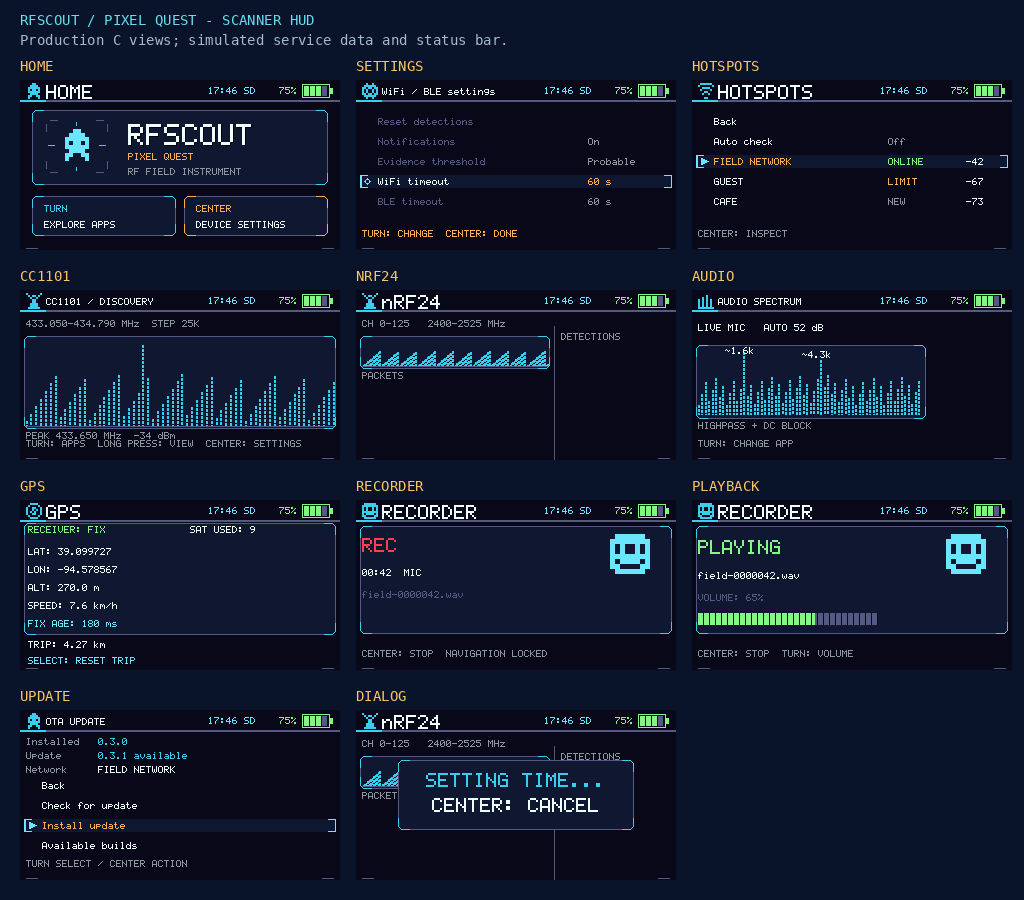
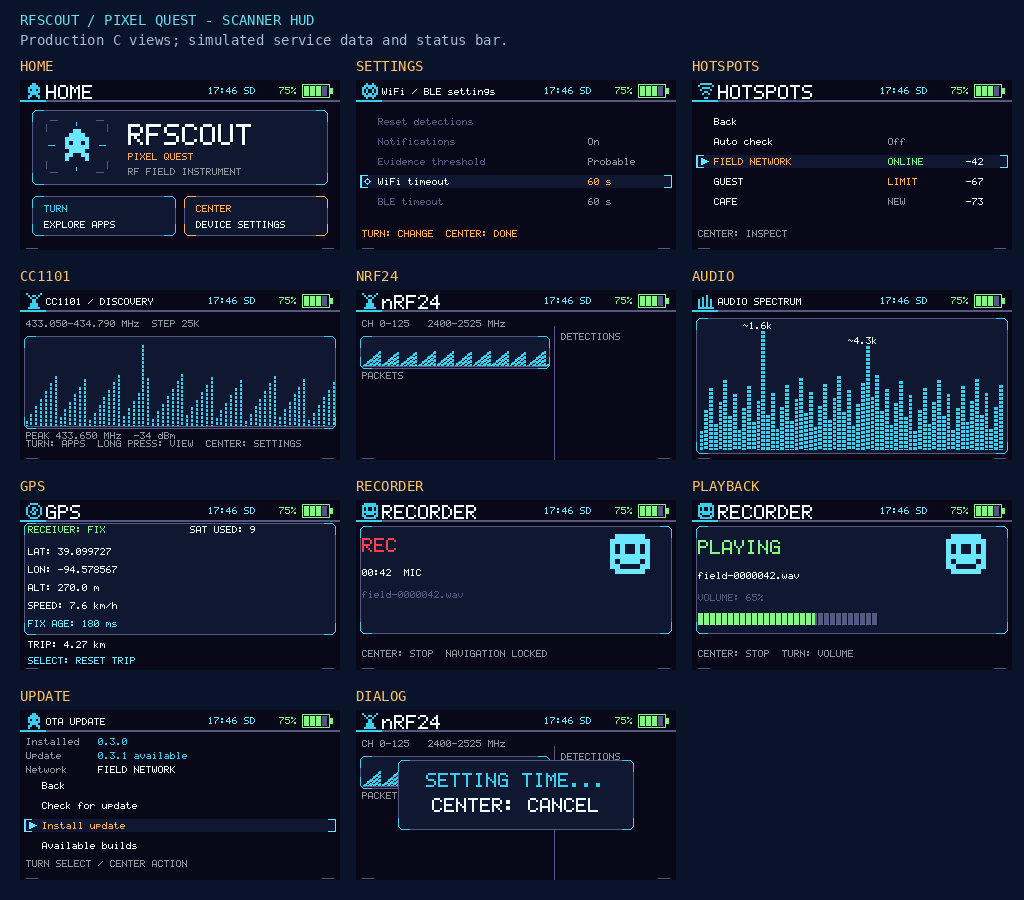
Expand audio spectrum and remove fixed automatic range limits

Changed region(s): [[0.6562, 0.3422, 1.0, 0.5289]]

diff --git a/main/apps/audio_spectrum/view.c b/main/apps/audio_spectrum/view.c
@@ -10,16 +10,15 @@
 #include "recorder.h"
 #include "ui_chrome.h"
 #include "ui_game.h"
-#include "ui_layout.h"
 #include "ui_theme.h"
 
 #include <stddef.h>
 #include <stdio.h>
 
-#define AUDIO_SPECTRUM_GRAPH_X UI_LAYOUT_LEFT_X
-#define AUDIO_SPECTRUM_GRAPH_Y 57
-#define AUDIO_SPECTRUM_GRAPH_W 224
-#define AUDIO_SPECTRUM_GRAPH_H 68
+#define AUDIO_SPECTRUM_GRAPH_X 8
+#define AUDIO_SPECTRUM_GRAPH_Y 32
+#define AUDIO_SPECTRUM_GRAPH_W ( RFSCOUT_DISPLAY_WIDTH - 16 )
+#define AUDIO_SPECTRUM_GRAPH_H ( RFSCOUT_DISPLAY_HEIGHT - 42 )
 #define AUDIO_SPECTRUM_PEAK_MIN_PERCENT 60U
 #define AUDIO_SPECTRUM_MAX_PEAK_LABELS 3U
 #define AUDIO_SPECTRUM_LABEL_WIDTH 36
@@ -148,19 +147,12 @@ void audio_spectrum_view_render( void )
 
     uint8_t bins[ RFSCOUT_RECORDER_MONITOR_BINS ];
     const size_t count = recorder_monitor_bins( bins, sizeof( bins ) );
-    char range_line[ 48 ];
-    snprintf( range_line,
-              sizeof( range_line ),
-              "LIVE MIC   AUTO %u dB",
-              (unsigned)recorder_monitor_range_db() );
-    display_draw_text( UI_LAYOUT_LEFT_X, 34, range_line, theme->text, 1U );
-
     if( ui_game_active() )
     {
-        ui_game_draw_panel( AUDIO_SPECTRUM_GRAPH_X - 2,
-                            AUDIO_SPECTRUM_GRAPH_Y - 2,
-                            AUDIO_SPECTRUM_GRAPH_W + 6,
-                            AUDIO_SPECTRUM_GRAPH_H + 6,
+        ui_game_draw_panel( AUDIO_SPECTRUM_GRAPH_X - 4,
+                            AUDIO_SPECTRUM_GRAPH_Y - 4,
+                            AUDIO_SPECTRUM_GRAPH_W + 8,
+                            AUDIO_SPECTRUM_GRAPH_H + 8,
                             theme->divider );
     }
 
@@ -170,12 +162,15 @@ void audio_spectrum_view_render( void )
         {
             const int x =
                 AUDIO_SPECTRUM_GRAPH_X + (int)( index * (size_t)AUDIO_SPECTRUM_GRAPH_W / count );
+            const int next_x = AUDIO_SPECTRUM_GRAPH_X +
+                               (int)( ( index + 1U ) * (size_t)AUDIO_SPECTRUM_GRAPH_W / count );
+            const int width = next_x - x > 1 ? next_x - x - 1 : 1;
             const int height = (int)bins[ index ] * AUDIO_SPECTRUM_GRAPH_H / 100;
             if( height > 0 )
             {
                 ui_game_draw_column( x,
                                      AUDIO_SPECTRUM_GRAPH_Y + AUDIO_SPECTRUM_GRAPH_H - height,
-                                     2,
+                                     width,
                                      height,
                                      theme->graph_primary );
             }
@@ -183,8 +178,5 @@ void audio_spectrum_view_render( void )
         draw_peak_labels( bins, count );
     }
 
-    display_draw_text( UI_LAYOUT_LEFT_X, 132, "HIGHPASS + DC BLOCK", theme->secondary, 1U );
-    display_draw_text(
-        UI_LAYOUT_LEFT_X, UI_LAYOUT_FOOTER_Y, "TURN: CHANGE APP", theme->secondary, 1U );
     (void)display_present();
 }

diff --git a/main/services/audio/recorder.c b/main/services/audio/recorder.c
@@ -46,7 +46,6 @@
 #define RECORDER_MONITOR_TASK_STACK 6144U
 #define RECORDER_MONITOR_TASK_PRIORITY 3U
 #define RECORDER_MONITOR_FIRST_FFT_BIN 1U
-#define RECORDER_MONITOR_MIN_RANGE_DB 18.0f
 #define RECORDER_MONITOR_HEADROOM_DB 3.0f
 #define RECORDER_MONITOR_RANGE_SMOOTH 0.05f
 
@@ -82,7 +81,7 @@ static uint8_t monitor_spectrum[ RFSCOUT_RECORDER_MONITOR_BINS ];
 static bool monitor_range_initialized;
 static float monitor_floor_db;
 static float monitor_ceiling_db;
-static volatile uint8_t monitor_range_db;
+static volatile float monitor_range_db;
 static volatile uint32_t monitor_sample_rate_hz = RFSCOUT_RECORDER_SAMPLE_RATE;
 static rfscout_audio_highpass_t monitor_highpass;
 static float monitor_fft_frame[ RECORDER_MONITOR_FFT_SIZE ];
@@ -844,11 +843,7 @@ static void compute_monitor_fft( const float *a_samples )
 
     const float floor_target = sorted[ RFSCOUT_RECORDER_MONITOR_BINS / 4U ];
     const float peak_target = sorted[ RFSCOUT_RECORDER_MONITOR_BINS - 1U ];
-    float ceiling_target = peak_target + RECORDER_MONITOR_HEADROOM_DB;
-    if( ceiling_target < floor_target + RECORDER_MONITOR_MIN_RANGE_DB )
-    {
-        ceiling_target = floor_target + RECORDER_MONITOR_MIN_RANGE_DB;
-    }
+    const float ceiling_target = peak_target + RECORDER_MONITOR_HEADROOM_DB;
 
     if( !monitor_range_initialized )
     {
@@ -868,16 +863,10 @@ static void compute_monitor_fft( const float *a_samples )
             monitor_ceiling_db +=
                 ( ceiling_target - monitor_ceiling_db ) * RECORDER_MONITOR_RANGE_SMOOTH;
         }
-        if( monitor_ceiling_db < monitor_floor_db + RECORDER_MONITOR_MIN_RANGE_DB )
-        {
-            monitor_ceiling_db = monitor_floor_db + RECORDER_MONITOR_MIN_RANGE_DB;
-        }
     }
 
     const float span = monitor_ceiling_db - monitor_floor_db;
-    const int rounded_span = (int)( span + 0.5f );
-    monitor_range_db =
-        (uint8_t)( rounded_span < 1 ? 1 : ( rounded_span > 255 ? 255 : rounded_span ) );
+    monitor_range_db = span;
     for( size_t bin = 0U; bin < RFSCOUT_RECORDER_MONITOR_BINS; ++bin )
     {
         int level =
@@ -974,7 +963,7 @@ esp_err_t recorder_start_monitor( void )
     monitor_range_initialized = false;
     monitor_floor_db = 0.0f;
     monitor_ceiling_db = 0.0f;
-    monitor_range_db = (uint8_t)RECORDER_MONITOR_MIN_RANGE_DB;
+    monitor_range_db = 0.0f;
     monitor_sample_rate_hz = RFSCOUT_RECORDER_SAMPLE_RATE;
     audio_highpass_reset( &monitor_highpass );
     monitor_fft_frame_count = 0U;
@@ -1030,7 +1019,7 @@ uint32_t recorder_monitor_bin_frequency_hz( size_t a_bin )
                        (uint64_t)monitor_sample_rate_hz / RECORDER_MONITOR_FFT_SIZE );
 }
 
-uint8_t recorder_monitor_range_db( void )
+float recorder_monitor_range_db( void )
 {
     return monitor_range_db;
 }

diff --git a/tests/test_audio_spectrum_scale.py b/tests/test_audio_spectrum_scale.py
@@ -1,0 +1,56 @@
+"""Exercise the production FFT scaling with quiet, silent, and wide-span inputs."""
+import os
+from pathlib import Path
+import re
+import subprocess
+import tempfile
+import unittest
+
+ROOT = Path(__file__).resolve().parents[1]
+
+
+class AudioSpectrumScaleTests(unittest.TestCase):
+    def test_automatic_fit_has_no_fixed_span_clamp(self):
+        source = (ROOT / "main/services/audio/recorder.c").read_text()
+        header = (ROOT / "main/services/audio/recorder.h").read_text()
+        defines = "\n".join(re.findall(r"^#define RECORDER_MONITOR_.*$", source, re.M))
+        bins = re.search(r"^#define RFSCOUT_RECORDER_MONITOR_BINS.*$", header, re.M).group()
+        start = source.index("static void compute_monitor_fft(")
+        end = source.index("static void monitor_process_samples(", start)
+        declarations = "\n".join(re.findall(
+            r"^static (?:volatile )?(?:uint8_t|bool|float) monitor_(?:spectrum|range_initialized|floor_db|ceiling_db|range_db)[^;]*;",
+            source, re.M,
+        ))
+        harness = r'''
+int main(void) {
+    float samples[RECORDER_MONITOR_FFT_SIZE] = {0};
+    compute_monitor_fft(samples);
+    assert(isfinite(monitor_range_db) && monitor_range_db > 0.0f);
+    for (size_t i = 0; i < RFSCOUT_RECORDER_MONITOR_BINS; ++i)
+        assert(monitor_spectrum[i] == 0);
+    monitor_range_initialized = false;
+    for (size_t i = 0; i < RECORDER_MONITOR_FFT_SIZE; ++i)
+        samples[i] = 0.1f * sinf(2.0f * (float)M_PI * 12.0f * i / RECORDER_MONITOR_FFT_SIZE);
+    compute_monitor_fft(samples);
+    assert(isfinite(monitor_range_db) && monitor_range_db > 0.0f && monitor_range_db < 18.0f);
+    assert(monitor_spectrum[11] > 0);
+    for (size_t i = 0; i < RECORDER_MONITOR_FFT_SIZE; ++i) samples[i] = 0.0f;
+    monitor_floor_db = 0.0f;
+    monitor_ceiling_db = 400.0f;
+    compute_monitor_fft(samples);
+    assert(isfinite(monitor_range_db) && monitor_range_db > 255.0f);
+    for (size_t i = 0; i < RFSCOUT_RECORDER_MONITOR_BINS; ++i)
+        assert(monitor_spectrum[i] == 0);
+    return 0;
+}
+'''
+        with tempfile.TemporaryDirectory() as directory:
+            path = Path(directory)
+            test_source = path / "scale.c"
+            test_source.write_text(
+                "#include <assert.h>\n#include <stdbool.h>\n#include <stdint.h>\n#include <stddef.h>\n#include <math.h>\n"
+                + defines + "\n" + bins + "\n" + declarations + "\n" + source[start:end] + harness
+            )
+            subprocess.run([os.environ.get("CC", "cc"), "-std=gnu11", "-Wall", "-Wextra", "-Werror",
+                            str(test_source), "-lm", "-o", str(path / "scale")], check=True)
+            subprocess.run([str(path / "scale")], check=True)

diff --git a/tests/ui_host/preview.c b/tests/ui_host/preview.c
@@ -146,7 +146,7 @@ uint32_t recorder_monitor_bin_frequency_hz( size_t a_bin )
 {
     return (uint32_t)a_bin * 125U;
 }
-uint8_t recorder_monitor_range_db( void )
+float recorder_monitor_range_db( void )
 {
     return 52U;
 }
@@ -414,6 +414,17 @@ int main( int a_argc, char **a_argv )
         5U, true, false, true, RFSCOUT_EVIDENCE_STRENGTH_PROBABLE, 60U, 60U );
     save( a_argv[ 1 ], "settings" );
     audio_spectrum_view_render();
+    /* The spectrum reaches both sides while retaining equal gutters and a quiet bottom edge. */
+    bool left_bar = false;
+    bool right_bar = false;
+    for( int y = 32; y < 160; ++y )
+    {
+        left_bar |= pixels[ y * 320 + 8 ] == ui_theme_get()->graph_primary;
+        right_bar |= pixels[ y * 320 + 310 ] == ui_theme_get()->graph_primary;
+    }
+    assert( left_bar && right_bar );
+    for( int x = 0; x < 320; ++x )
+        assert( pixels[ 165 * 320 + x ] == ui_theme_get()->background );
     save( a_argv[ 1 ], "audio" );
     gps_view_render( false, false, false );
     save( a_argv[ 1 ], "gps" );

diff --git a/main/services/audio/recorder.h b/main/services/audio/recorder.h
@@ -86,8 +86,8 @@ size_t recorder_monitor_bins( uint8_t *a_bins, size_t a_capacity );
 /** @brief Return the center frequency of a displayed spectrum bin using measured PCM throughput. */
 uint32_t recorder_monitor_bin_frequency_hz( size_t a_bin );
 
-/** @brief Return the current automatic spectrum display span in dB. */
-uint8_t recorder_monitor_range_db( void );
+/** @brief Return the current automatic spectrum display span in dB without a fixed range clamp. */
+float recorder_monitor_range_db( void );
 
 /** @brief Start asynchronous playback of one enumerated recording. */
 esp_err_t recorder_start_playback( size_t a_index, uint8_t a_volume_percent );

diff --git a/main/app_logging.c b/main/app_logging.c
@@ -164,7 +164,7 @@ static void write_periodic_record( rfscout_app_id_t a_app )
 
         case RFSCOUT_APP_AUDIO_SPECTRUM:
             success = log_uint( &record, "state", recorder_state() ) &&
-                      log_uint( &record, "range_db", recorder_monitor_range_db() );
+                      log_double( &record, "range_db", recorder_monitor_range_db() );
             break;
 
         case RFSCOUT_APP_THERMAL:

diff --git a/docs/ARCHITECTURE.md b/docs/ARCHITECTURE.md
@@ -271,8 +271,8 @@ endcaps occupy y=168. Existing data origins and rotary/Select/Long Press/Hold se
 unchanged. Blue cursor glyphs and corner tabs identify the selected row consistently across apps within its existing band. The selection triangle becomes a hollow diamond while editing. In other themes,
 these menu helpers render the original textual markers and graphs retain continuous columns.
 
-Radio/audio graph gaps decorate the existing columns without quantizing their height, moving
-peaks, or changing source measurements. Segmented battery and Recorder playback-volume meters preserve proportional fill, with dim unlit capacity cells. Zero/unknown/charging battery states leave the capacity cells unlit; the existing percentage/unknown text and charging bolt remain visible. Battery urgency, unavailable states, lock distinctions, and charging presentation remain semantic. Thermal's literal image pixels continue to bypass
+Radio/audio graph gaps decorate the columns without quantizing their height, moving
+peaks, or changing source measurements. Audio Spectrum uses a centered 304×128 plot below the header; its automatic range follows the measured floor/peak without a fixed span clamp. Segmented battery and Recorder playback-volume meters preserve proportional fill, with dim unlit capacity cells. Zero/unknown/charging battery states leave the capacity cells unlit; the existing percentage/unknown text and charging bolt remain visible. Battery urgency, unavailable states, lock distinctions, and charging presentation remain semantic. Thermal's literal image pixels continue to bypass
 palette translation; its relative-IR/calibration warnings remain visible.
 
 Global dialogs use clipped corners and short colored brackets contained entirely inside the existing 236×70 saved

diff --git a/docs/apps/AUDIO_SPECTRUM.md b/docs/apps/AUDIO_SPECTRUM.md
@@ -21,7 +21,7 @@ Audio Spectrum consumes raw capture PCM through the shared provider and applies 
 - FFT/bin presentation; and
 - up to three strong local peak-frequency labels.
 
-The display identifies the live microphone and current automatic dB range. Spectrum analysis does not apply Recorder's whole-recording normalization path.
+The spectrum fills a centered plot below the shared header, with up to three peak-frequency labels. Redundant microphone, automatic-range, filter-status, and navigation text are omitted. Automatic fit follows the measured floor and peak without a fixed minimum/maximum dB span, retaining 3 dB peak headroom and the existing smoothing. Silent input remains finite; range telemetry uses a floating-point dB value without the former 8-bit cap. Spectrum analysis does not apply Recorder's whole-recording normalization path.
 
 ## Sample-rate interpretation
 
